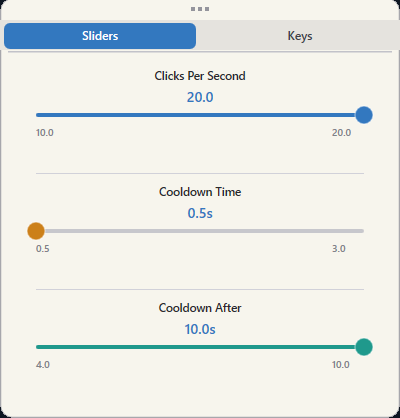
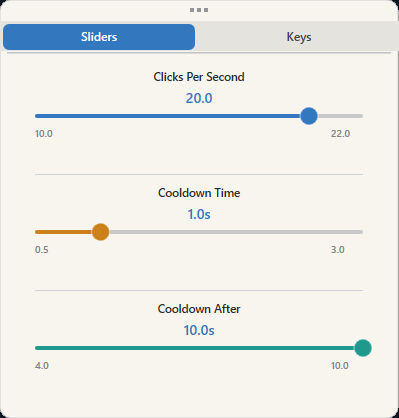
Chore : Fixed slider values and updated image

diff --git a/Controlpanel.cpp b/Controlpanel.cpp
@@ -206,7 +206,7 @@ void ControlPanel::RenderSlidersPage() {
     };
     static const wchar_t* kUnits[3] = { L"", L"s", L"s" };
     static const float    kMins[3] = { 10.0f, 0.5f,  4.0f };
-    static const float    kMaxs[3] = { 20.0f, 3.0f, 10.0f };
+    static const float    kMaxs[3] = { 22.0f, 3.0f, 10.0f };
 
     Slider* sliders[3] = { mSliderCps, mSliderCooldown, mSliderTrigCD };
 
